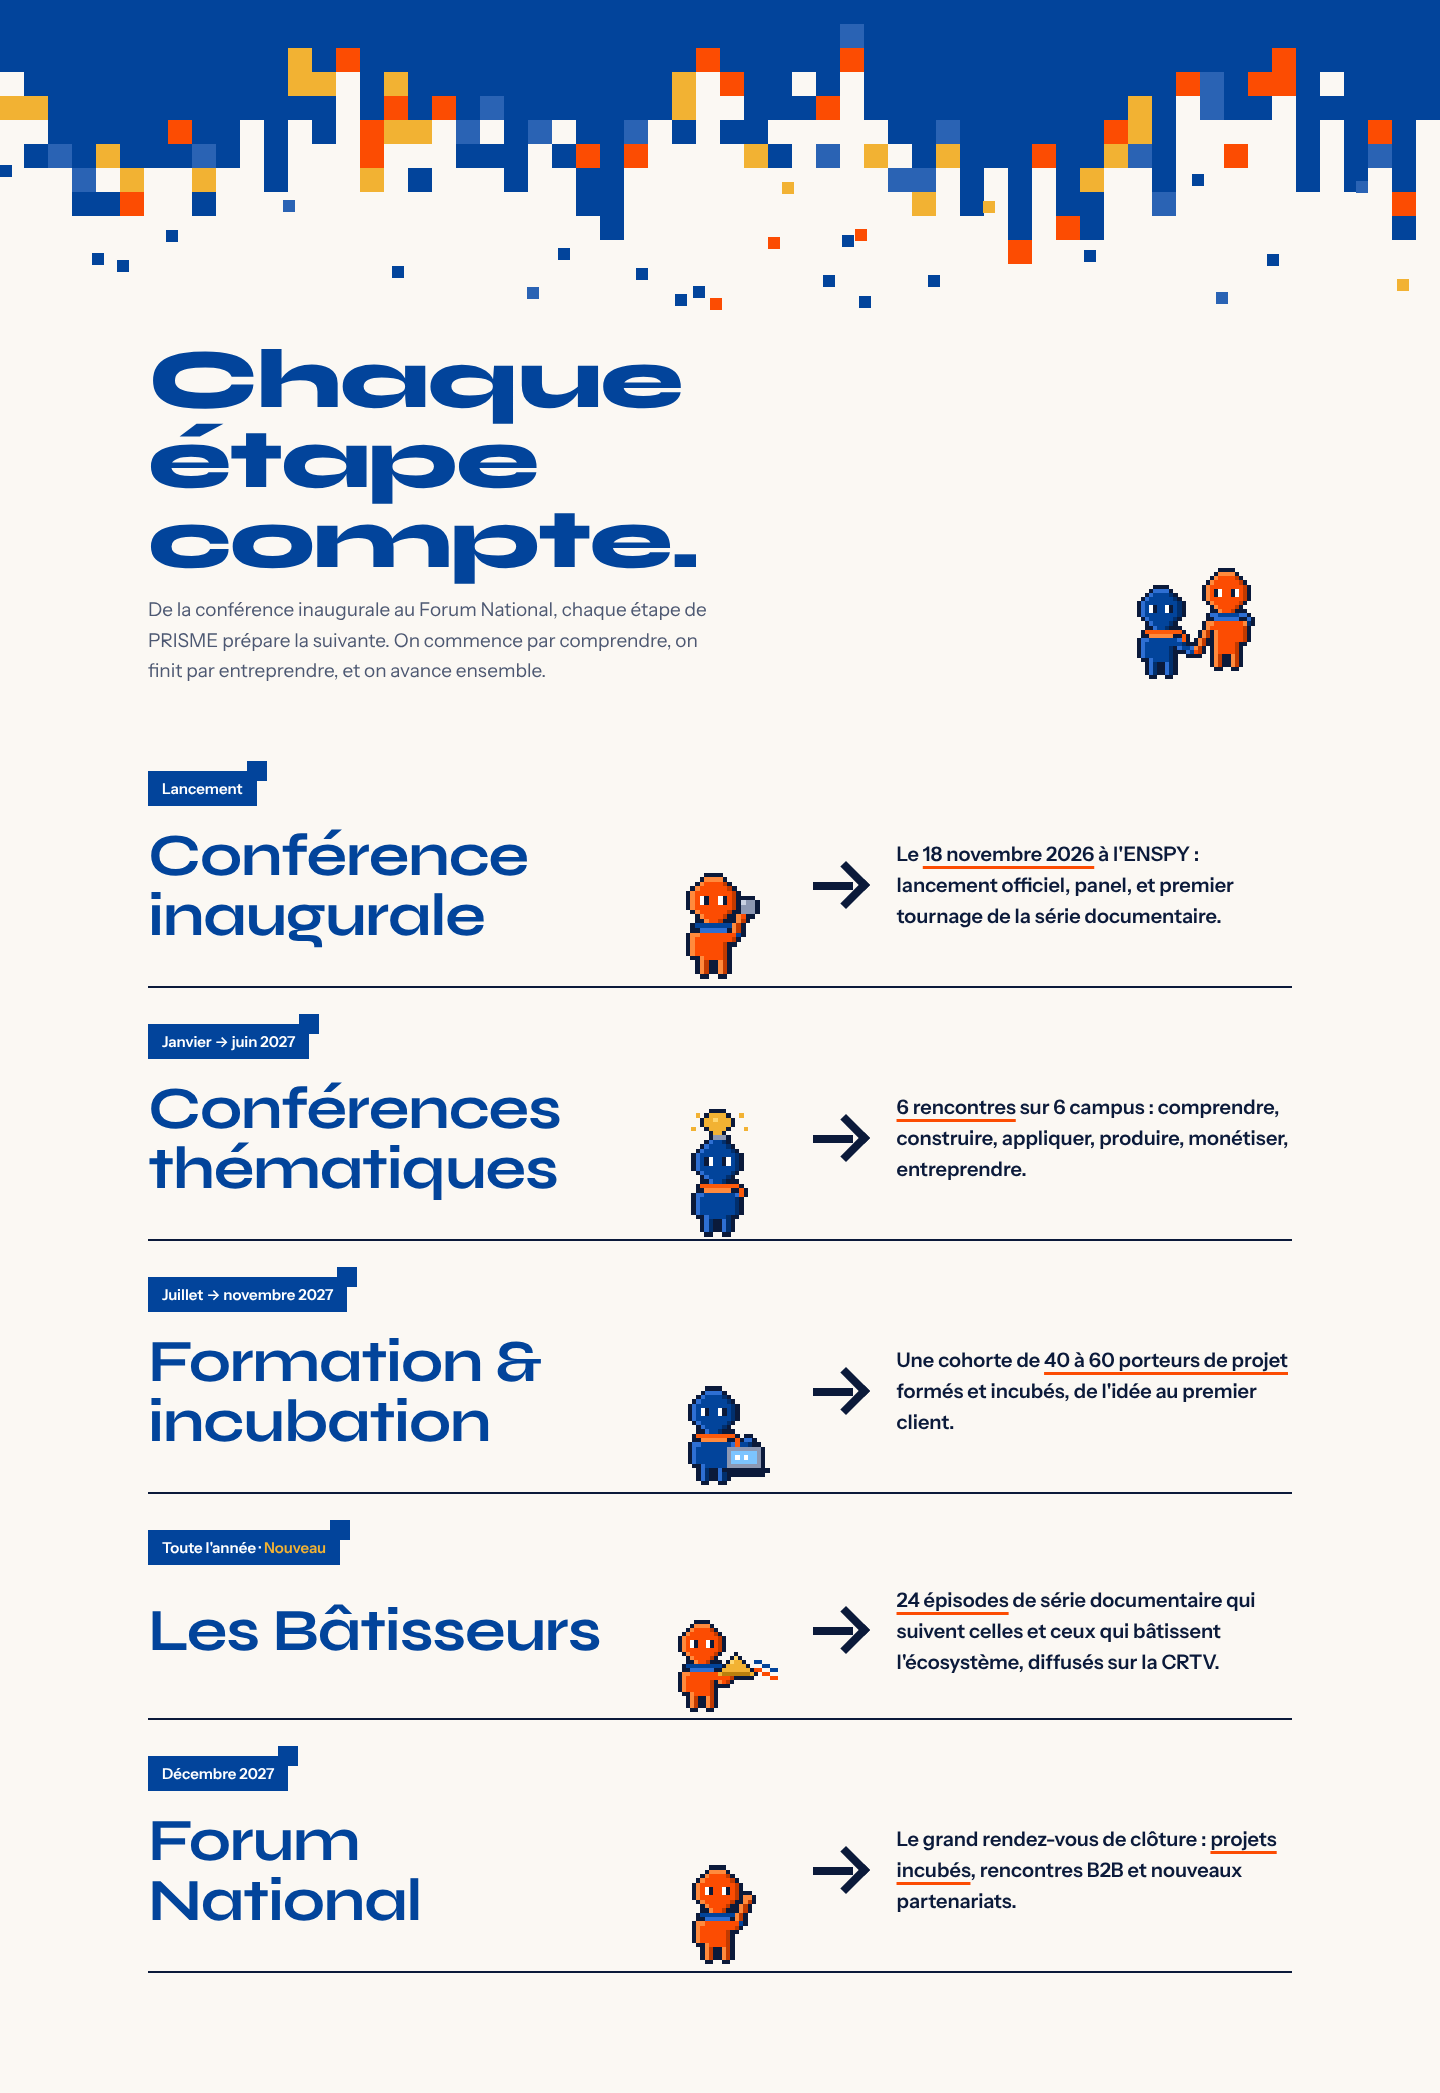
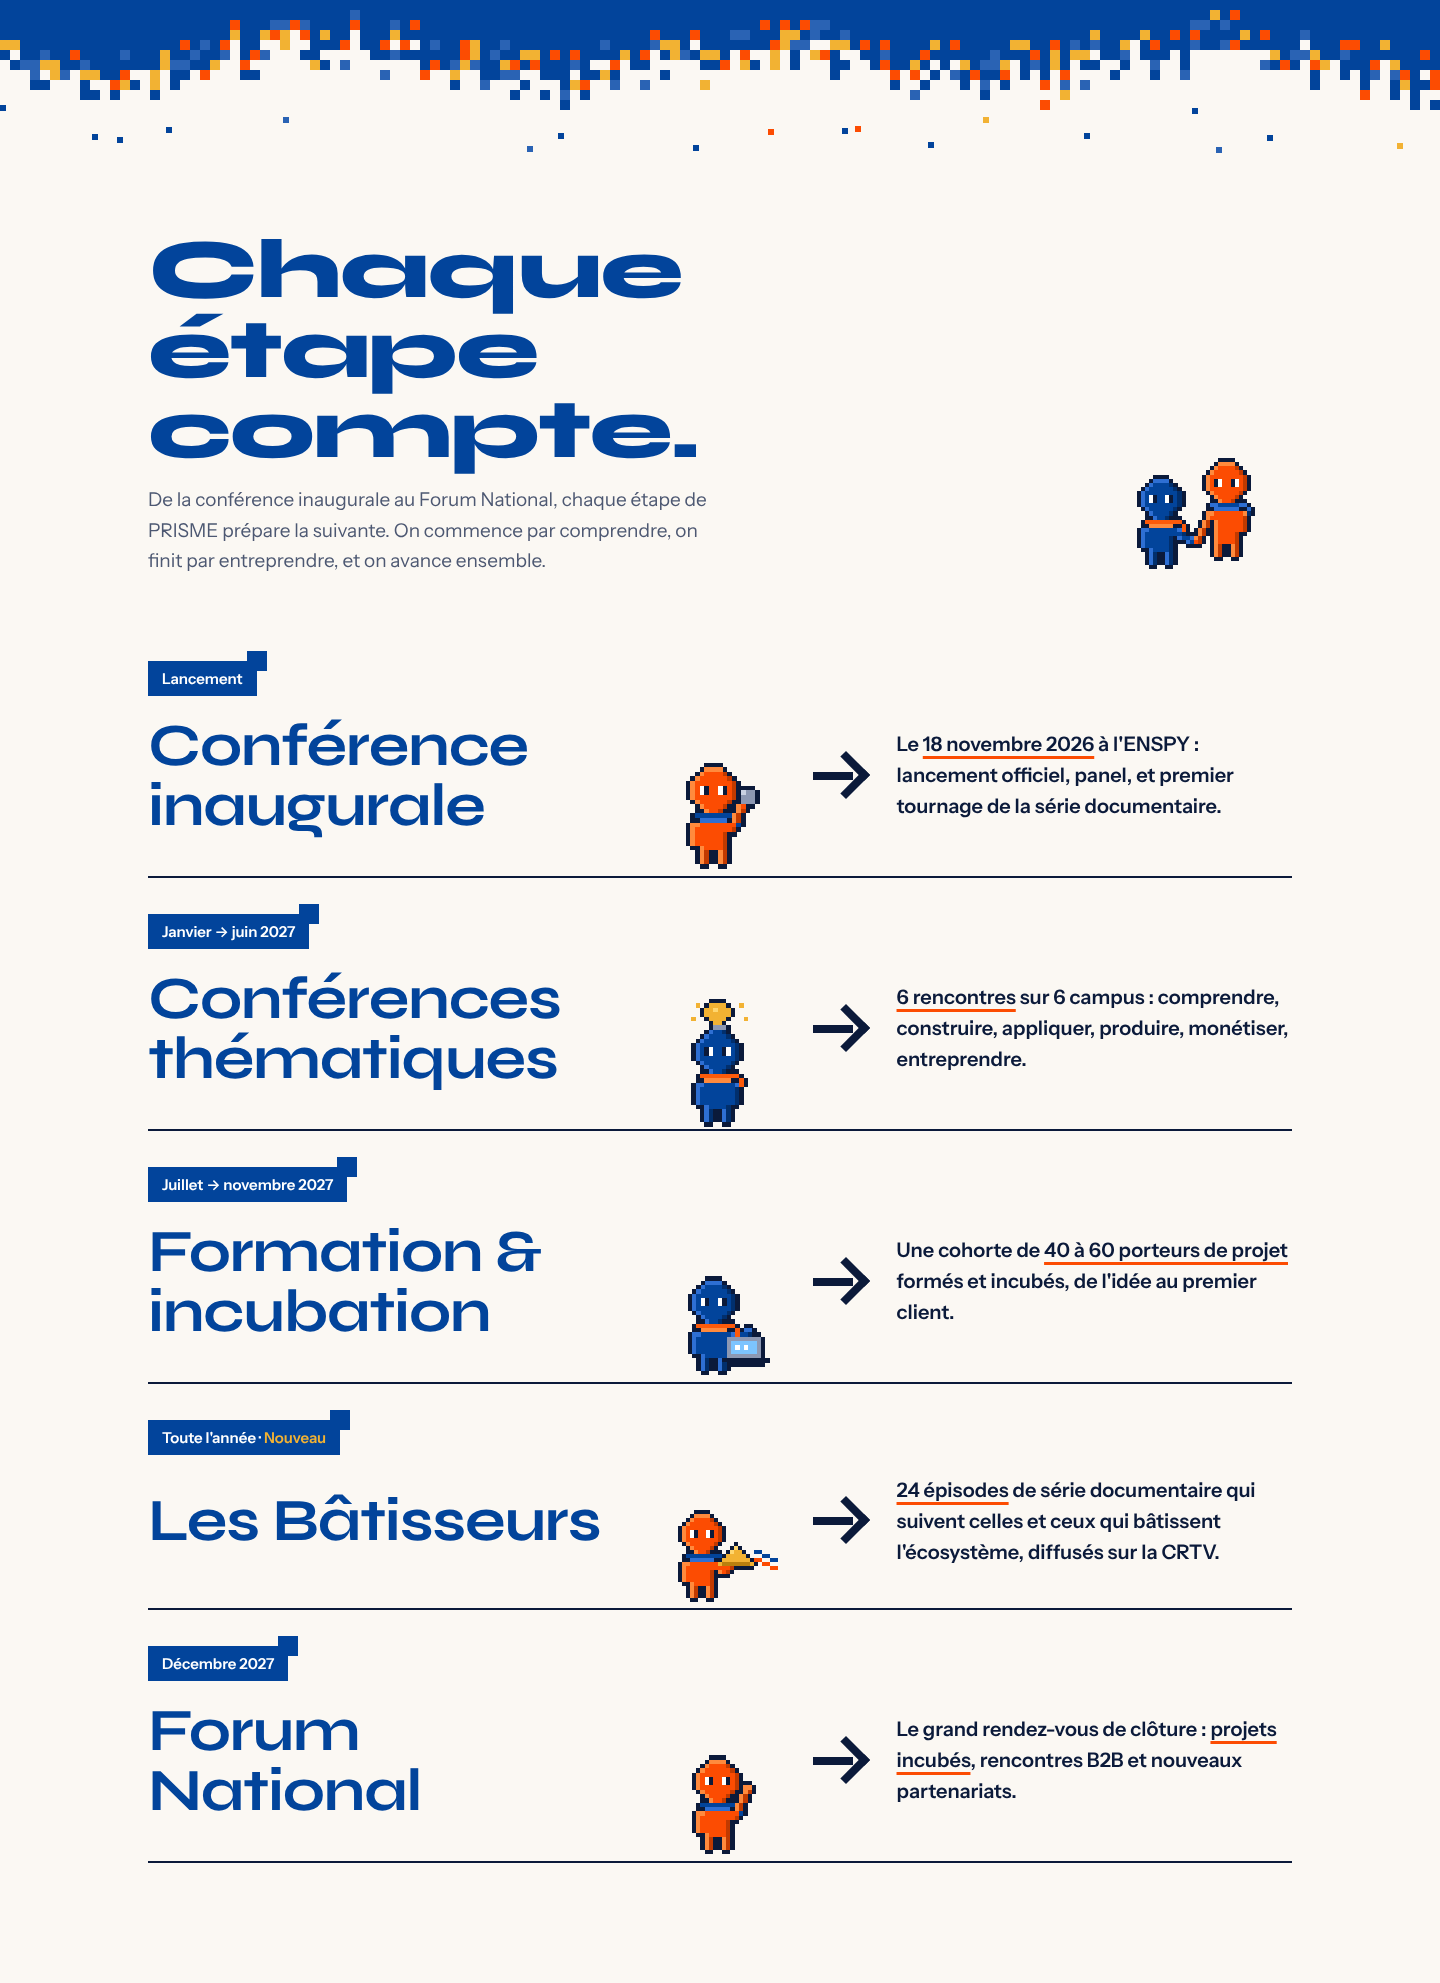
style(design): rideau pixel plus fin, plus haut et plus doux
Pixels de 10 px (6 px sur mobile), rideau fixé en haut de l'écran et
moins profond, chute courte avec départ et arrivée adoucis, effacement
complet après 420 px de défilement.

Claude-Session: https://claude.ai/code/session_019ZXVQ5oBDYaMQRTMNyqkYh

diff --git a/docs/design/proto-programmes.html b/docs/design/proto-programmes.html
@@ -12,9 +12,9 @@ body{margin:0;background:var(--papier);color:var(--nuit);font-family:'Instrument
 img.px{image-rendering:pixelated;display:block}
 
 /* ---------- Rideau de pixels ---------- */
-.curtain{position:relative;height:300px;overflow:visible;pointer-events:none}
+.curtain{position:fixed;top:0;left:0;right:0;height:150px;overflow:visible;pointer-events:none;z-index:5}
 .curtain i{position:absolute;display:block;will-change:transform,opacity}
-.intro{max-width:1240px;margin:0 auto;padding:40px 48px 24px;display:grid;grid-template-columns:1fr auto;gap:40px;align-items:end}
+.intro{max-width:1240px;margin:0 auto;padding:230px 48px 24px;display:grid;grid-template-columns:1fr auto;gap:40px;align-items:end}
 .intro h1{margin:0;font-family:Syne,sans-serif;font-weight:800;font-size:clamp(44px,6vw,84px);line-height:.95;letter-spacing:-.02em;color:var(--bleu)}
 .intro p{margin:16px 0 0;font-size:19px;line-height:1.6;color:var(--gris);max-width:560px}
 
@@ -39,7 +39,8 @@ img.px{image-rendering:pixelated;display:block}
   .row{grid-template-columns:1fr;gap:14px}
   .arrow{display:none}
   .mascot{display:none}
-  .curtain{height:180px}
+  .curtain{height:96px}
+  .intro{padding-top:150px}
 }
 </style>
 </head>
@@ -108,41 +109,41 @@ img.px{image-rendering:pixelated;display:block}
   function build() {
     el.innerHTML = ''; cells = [];
     const w = el.clientWidth;
-    size = w < 760 ? 16 : 24;
+    size = w < 760 ? 6 : 10;
     const cols = Math.ceil(w / size), rows = Math.floor(el.clientHeight / size);
     for (let c = 0; c < cols; c++) {
       // hauteur de chaque colonne : bord inférieur irrégulier
-      const h = Math.max(2, Math.round(rows * (0.45 + 0.35 * rand(c * 3.1) + 0.12 * Math.sin(c / 3))));
+      const h = Math.max(2, Math.round(rows * (0.42 + 0.22 * rand(c * 3.1) + 0.1 * Math.sin(c / 7))));
       for (let r = 0; r < h; r++) {
         const isEdge = r >= h - 2;
-        if (isEdge && rand(c * 17 + r) < 0.35) continue;              // pixels manquants sur le bord
+        if (isEdge && rand(c * 17 + r) < 0.45) continue;              // pixels manquants sur le bord
         const i = document.createElement('i');
         const fromBottom = (h - r) / h;                                // le bas part en premier
         const t = Math.min(.95, (1 - fromBottom) * .75 + rand(c * 7 + r * 13) * .25);
-        const col = r < h - 3 ? '#02449B' : colors[Math.floor(rand(c + r * 31) * colors.length)];
+        const col = r < h - 4 ? '#02449B' : colors[Math.floor(rand(c + r * 31) * colors.length)];
         i.style.cssText = `left:${c * size}px;top:${r * size}px;width:${size}px;height:${size}px;background:${col}`;
         el.appendChild(i);
-        cells.push({ i, t, dx: (rand(c * 5 + r) - .5) * 80, fall: 80 + rand(c + r * 7) * 160 });
+        cells.push({ i, t, dx: (rand(c * 5 + r) - .5) * 24, fall: 18 + rand(c + r * 7) * 46, rot: (rand(c * 11 + r) - .5) * 60 });
       }
     }
     // quelques confettis isolés sous le rideau
-    for (let k = 0; k < 26; k++) {
-      const i = document.createElement('i'); const s = size / 2;
-      i.style.cssText = `left:${rand(k * 9.7) * w}px;top:${el.clientHeight * (.55 + rand(k * 4.3) * .45)}px;width:${s}px;height:${s}px;background:${colors[k % colors.length]}`;
+    for (let k = 0; k < 18; k++) {
+      const i = document.createElement('i'); const s = Math.max(4, size * .6);
+      i.style.cssText = `left:${rand(k * 9.7) * w}px;top:${el.clientHeight * (.7 + rand(k * 4.3) * .3)}px;width:${s}px;height:${s}px;background:${colors[k % colors.length]}`;
       el.appendChild(i);
-      cells.push({ i, t: rand(k * 2.9) * .5, dx: (rand(k) - .5) * 60, fall: 120 });
+      cells.push({ i, t: rand(k * 2.9) * .4, dx: (rand(k) - .5) * 20, fall: 40, rot: 30 });
     }
     update();
   }
 
   function update() {
     if (reduce) return;
-    const p = Math.min(1, Math.max(0, window.scrollY / 520));       // 0 en haut, 1 après 520 px
+    const p = Math.min(1, Math.max(0, window.scrollY / 420));       // 0 en haut, 1 après 420 px
     for (const c of cells) {
-      const k = Math.min(1, Math.max(0, (p - c.t) / .3));
-      const e = k * k;                                                // accélère en tombant
-      c.i.style.transform = k ? `translate(${c.dx * e}px, ${c.fall * e}px) rotate(${e * 90}deg) scale(${1 - e * .5})` : '';
-      c.i.style.opacity = String(1 - k);
+      const k = Math.min(1, Math.max(0, (p - c.t * .8) / .45));
+      const e = k * k * (3 - 2 * k);                                  // départ et arrivée en douceur
+      c.i.style.transform = k ? `translate(${c.dx * e}px, ${c.fall * e}px) rotate(${c.rot * e}deg) scale(${1 - e * .35})` : '';
+      c.i.style.opacity = String(1 - e);
     }
   }
 
